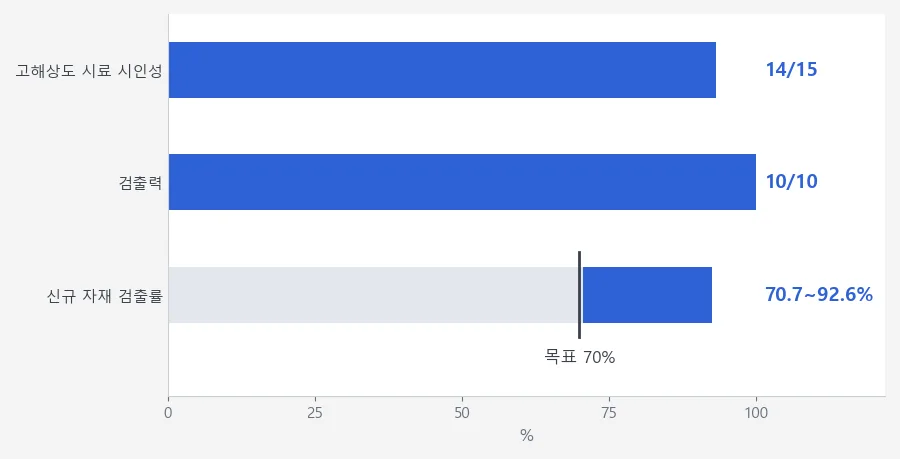
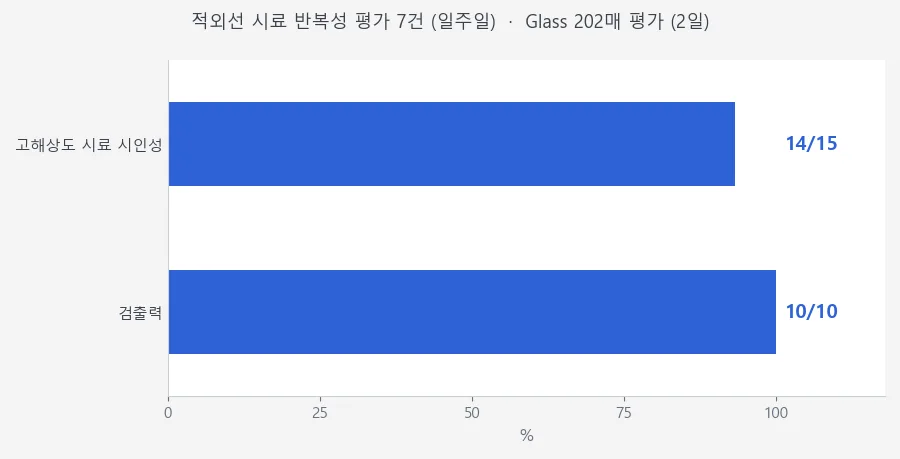
수치 대조 반영: 264시간은 전체 운영 기간(Failure 0건), Align 최대 오차 0.0013°, 정적 분석 수치 출처 분리, Tilt 보정 2025, Tact 조건, 보간 추적과 Down 해결 2026, 광학계 0.5µm 는 교체 사양, Real Rate 는 Crack 과제로, 근거 없는 문구 삭제

diff --git a/index.html b/index.html
@@ -50,7 +50,7 @@
       <a class="fig-num reveal" href="#p-mark"><strong>−79<span>%</span></strong><p>정렬 마크 Align 시간<br><small>템플릿 방식 대비, 현장 12/12 Slot 검출</small></p></a>
       <a class="fig-num reveal" href="#p-recipe"><strong>−92<span>%</span></strong><p>Bump Recipe 작성 시간<br><small>도면 기반 자동 배치</small></p></a>
       <a class="fig-num reveal" href="#p-focus"><strong>−72<span>%</span></strong><p>Auto Focus 시간<br><small>영상 AF 동시 검증, 이후 접촉 감지로 ±2µm</small></p></a>
-      <a class="fig-num reveal" href="#p-stable"><strong>264<span>h</span></strong><p>연속 운전 장애 0건<br><small>신규 설비 양산 투입 후</small></p></a>
+      <a class="fig-num reveal" href="#p-stable"><strong>264<span>h</span></strong><p>운영 중 Failure 0건<br><small>신규 설비 11일 운영, Vision UpTime 98.86%</small></p></a>
     </section>
 
     <section id="work" class="wrap">
@@ -63,7 +63,7 @@
           <div class="card-body">
             <h3>Feature 등록 없는 Wafer Align</h3>
             <p>Die 배열의 주기에 격자를 맞춰 회전각을 구하고, 틀린 결과는 스스로 거릅니다.</p>
-            <dl class="kpi"><div><dt>오판정 합격</dt><dd>0건</dd></div><div><dt>최대 각도 오차</dt><dd>−98%</dd></div></dl>
+            <dl class="kpi"><div><dt>오판정 합격</dt><dd>0건</dd></div><div><dt>최대 각도 오차</dt><dd>0.0013°</dd></div></dl>
             <span class="more-link">자세히 보기</span>
           </div>
         </a>
@@ -73,7 +73,7 @@
           <div class="card-body">
             <h3>신규 Particle 제거 설비 SW</h3>
             <p>참고 코드 없는 신규 설비를 양산에서 멈추지 않을 때까지 안정화했습니다.</p>
-            <div class="stat-big"><strong>264<span>h</span></strong><span>연속 운전, 장애 0건</span></div>
+            <div class="stat-big"><strong>264<span>h</span></strong><span>11일 운영, Failure 0건</span></div>
             <span class="more-link">자세히 보기</span>
           </div>
         </a>
@@ -125,7 +125,7 @@
           <h4>영상 알고리즘</h4>
           <div class="tiles">
             <a class="tile reveal" href="#p-score"><img class="light" src="assets/img/fig-score.webp" alt="" loading="lazy" width="900" height="600"><b>패턴 매칭 점수 오판정 개선</b><span>100점 고정 해소</span></a>
-            <a class="tile reveal" href="#p-hough"><img src="assets/img/fig-hough.webp" alt="" loading="lazy" width="900" height="600"><b>웨이퍼 외곽 원 검출 개선</b><span>재현 0건</span></a>
+            <a class="tile reveal" href="#p-hough"><img src="assets/img/fig-hough.webp" alt="" loading="lazy" width="900" height="600"><b>웨이퍼 외곽 원 검출 개선</b><span>오판정, 재시도 감소</span></a>
             <a class="tile reveal" href="#p-rgb"><img class="light" src="assets/img/fig-rgb.webp" alt="" loading="lazy" width="900" height="600"><b>조명 보정을 R, G, B 채널별로</b><span>1회 촬영으로 세 채널</span></a>
             <a class="tile reveal" href="#p-interp"><img src="assets/img/fig-interp.webp" alt="" loading="lazy" width="900" height="600"><b>보간 방식 차이 추적</b><span>결함 수 2.8% 차이</span></a>
           </div>
@@ -193,8 +193,8 @@
         <p class="sub">반도체 검사장비 기업 SW팀, 2022.01 입사. 대응 설비 7종 이상, 누적 작업 80건, 고객 공유 문서 8건 (2026 상반기 기준)</p>
         <ol class="timeline">
           <li><time>2026</time><p>Feature 없는 Align, 정렬 마크 검출, 도면 기반 Recipe 자동 생성, Crack 검출, Tip 파손 재발 방지</p></li>
-          <li><time>2025</time><p>신규 Particle 제거 설비 SW 셋업과 현장 상주 안정화, 입자 높이 Auto Focus, 적외선 광학계 평가</p></li>
-          <li><time>2024</time><p>2D, 3D 검사 설비 Tact 단축과 Tilt 보정, 데이터 백업 도구, 결과 편집 기능</p></li>
+          <li><time>2025</time><p>신규 Particle 제거 설비 SW 셋업과 현장 상주 안정화, 입자 높이 Auto Focus, 3D 검사 Stage Tilt 보정, 적외선 광학계 평가</p></li>
+          <li><time>2024</time><p>2D, 3D 검사 설비 Vision Setup 과 Tact 단축, 데이터 백업 도구, 결과 편집 기능</p></li>
           <li><time>2023</time><p>결함 좌표 매칭 알고리즘과 Review 리포트, 기준 데이터(Reference Data) 설비 통합, 설비 데이터 백업과 용량 관리, 검사 모듈 전압 Interlock, 12월부터 2D, 3D 검사 설비 Setup</p></li>
           <li><time>2022</time><p>입사 (일학습병행). 검사 상태 화면, 불량 통계 분석 기능, 촬영 영역 밝기 Interlock, 검사 결과 데이터 자동 삭제</p></li>
         </ol>
@@ -248,7 +248,7 @@
     <p class="d-meta">2026 · 알고리즘 설계, 실험, C++ 구현, 현장 검증</p>
     <h2 id="detail-title">Feature 등록 없는 Wafer Align</h2>
     <figure class="d-fig"><img src="assets/img/fig-align.webp" alt="1.8도 회전한 합성 Die 격자 위에 추정한 격자를 겹친 그림" width="1200" height="750"><figcaption>합성 Die 격자(1.8° 회전, 열 고정 잡음)에서 추정한 격자</figcaption></figure>
-    <dl class="kpi"><div><dt>오판정 합격</dt><dd>0건</dd></div><div><dt>최대 각도 오차</dt><dd>−98%</dd></div><div><dt>회전 자재 100회</dt><dd>Fail 0</dd></div></dl>
+    <dl class="kpi"><div><dt>오판정 합격</dt><dd>0건</dd></div><div><dt>최대 각도 오차</dt><dd>0.0013°</dd></div><div><dt>회전 자재 100회</dt><dd>Fail 0</dd></div></dl>
     <section class="d-step">
       <h3><span>1</span>등록 없이, 틀리면 스스로 거르게</h3>
       <p>사람이 등록한 Feature 를 매칭하는 방식은 Recipe 마다 등록 공수가 들고 Fail 이 남았습니다. 1차 방식은 양산 자재 수천 회 평가에서 고객 기준을 만족했지만, 저대비 영상에서 틀린 각도에 높은 점수를 주는 경우가 있었습니다.</p>
@@ -265,7 +265,7 @@
     </section>
     <section class="d-step">
       <h3><span>4</span>남은 과제</h3>
-      <p>처리 시간이 기존보다 길어, 촬영 줄 수를 2줄에서 1줄로 줄여 Takt 안에 맞추는 안을 함께 냈습니다. 보이는 Die 가 적은 영역은 판정을 거부하도록 설계했고, 양산 전환 검증을 진행 중입니다.</p>
+      <p>연산은 150ms 에서 약 700ms 로 늘었지만 양산 Takt 안에서 허용되는 수준입니다. 보이는 Die 가 적은 영역은 판정을 거부하도록 설계했고, 양산 전환 검증을 진행 중입니다.</p>
     </section>
     <p class="d-tags">C++, Python, OpenCV</p>
   </template>
@@ -274,8 +274,8 @@
     <p class="d-meta">2025-2026 · Vision, 시퀀스, UI, Interlock, 카메라 제어</p>
     <h2 id="detail-title">신규 Particle 제거 설비 SW</h2>
     <figure class="d-fig light"><img src="assets/img/fig-stable.webp" alt="연속 촬영 시간에 따라 화면에 못 그린 프레임 수. 모든 프레임을 차례로 그리면 5분에 700장 넘게 쌓이고, 최신 1장만 그리면 1장 이하" width="900" height="540"><figcaption>화면 그리기가 촬영보다 조금만 느려도, 모든 프레임을 차례로 그리면 대기열이 끝없이 쌓입니다. 합성 시뮬레이션</figcaption></figure>
-    <div class="stat-big"><strong>264<span>h</span></strong><span>계획 중단 3시간을 뺀 연속 운전, Vision 장애 0건</span></div>
-    <dl class="kpi"><div><dt>가동률 (432h 기준)</dt><dd>99.31%</dd></div><div><dt>메모리 사용</dt><dd>−33%</dd></div><div><dt>카메라 사용 시간</dt><dd>−55%</dd></div></dl>
+    <div class="stat-big"><strong>264<span>h</span></strong><span>11일(264시간) 운영 동안 Failure 0건, Vision UpTime 98.86%</span></div>
+    <dl class="kpi"><div><dt>가동률 (432h 기준)</dt><dd>99.31%</dd></div><div><dt>메모리 (10회 Shear)</dt><dd>18 → 12GB</dd></div><div><dt>카메라 사용 시간</dt><dd>−55%</dd></div></dl>
     <section class="d-step">
       <h3><span>1</span>참고 코드 없는 신규 설비</h3>
       <p>수동 장비를 Semi Auto 로 바꾸는 신규 설비라 참고할 코드가 없고 납기는 정해져 있었습니다. 양산 투입 후 48시간 안에 프로그램이 멈추는 일이 반복돼, 현장에 25일 상주하며 재현, 로그 분석, 수정, 재검증을 반복했습니다.</p>
@@ -287,7 +287,7 @@
     </section>
     <section class="d-step">
       <h3><span>3</span>멈춤을 숫자로 보기</h3>
-      <p>Crash 와 강제 종료를 감지해 MTBI, MTBF, 가동률을 로그에서 자동으로 계산하게 했습니다. 기능검사 9건을 100% 처리하고 3자 인증을 통과했습니다.</p>
+      <p>Crash 와 강제 종료를 감지해 MTBI, MTBF, 가동률을 로그에서 자동으로 계산하게 했습니다. 기능검사 9건 중 SW 담당 항목을 모두 처리하고 3자 인증을 통과했습니다.</p>
     </section>
     <section class="d-step">
       <h3><span>4</span>Interlock 재정비</h3>
@@ -357,7 +357,7 @@
     </section>
     <section class="d-step">
       <h3><span>2</span>모양과 위치를 함께 복원</h3>
-      <p>Min Pooling 방식을 좌표 Snapping, Oversampling, Box Resampling, Threshold 로 바꿨습니다(위 그림). 여러 크기의 VIA 와 Bump 로 기준 영상과 일치하는지 검증했습니다.</p>
+      <p>Min Pooling 방식을 좌표 Snapping, Oversampling, Box Resampling, Threshold 로 바꿨습니다(위 그림). 여러 크기의 VIA 와 Bump 로 기준 영상과 일치하는지 검증했고, 양산 자재(8µm VIA, 20µm Bump)로 위치와 형상이 일치해 <b>양산 검증을 통과</b>했습니다.</p>
     </section>
     <section class="d-step">
       <h3><span>3</span>대면적은 필요한 곳만</h3>
@@ -365,7 +365,7 @@
     </section>
     <section class="d-step">
       <h3><span>4</span>Bump 25만 개 자동 배치</h3>
-      <p>4점 원근 보정으로 Bump 약 25만 개를 배치하고, 첫 Layer 의 보정값을 다음 Layer 가 물려받게 했습니다. Bump Recipe 작성 <b>4시간에서 20분</b>, 양산 검증 통과. 같은 주제를 석사 연구(도면 특징으로 영역별 검사 임계값 정하기)로 이어가고 있습니다.</p>
+      <p>4점 원근 보정으로 Bump 약 25만 개를 배치하고, 첫 Layer 의 보정값을 다음 Layer 가 물려받게 했습니다. Bump Recipe 작성은 <b>4시간에서 20분</b>으로 줄었습니다. 같은 주제를 석사 연구(도면 특징으로 영역별 검사 임계값 정하기)로 이어가고 있습니다.</p>
     </section>
     <p class="d-tags">C# (WPF), C++, Python</p>
   </template>
@@ -381,7 +381,7 @@
     </section>
     <section class="d-step">
       <h3><span>2</span>5단계로 나눈 검출</h3>
-      <p>가장자리 탐색, 가변 Mask, 결함 검출, 크기 필터, Interlock 의 5단계로 나누고, 가장자리 띠 폭과 밝기 조건을 파라미터로 뺐습니다. 전체 결함 1,883건 중 <b>524건</b>을 새로 검출했습니다.</p>
+      <p>가장자리 탐색, 가변 Mask, 결함 검출, 크기 필터, Interlock 의 5단계로 나누고, 가장자리 띠 폭과 밝기 조건을 파라미터로 뺐습니다. 전체 결함 1,883건 중 <b>524건</b>을 새로 검출했고, HBM4 4개 조건을 모두 통과했습니다(Real Rate 목표 70% 대비 최대 92.6%).</p>
     </section>
     <section class="d-step">
       <h3><span>3</span>TB 급 영상을 여는 도구</h3>
@@ -397,7 +397,7 @@
     <h3>문제</h3>
     <ul><li>레시피 관리 기능이 도구 3개로 나뉘어 있어, 버전 확인, 수정, 배포, 복원을 도구를 옮겨 다니며 처리했습니다.</li></ul>
     <h3>접근</h3>
-    <ul><li>버전 저장소와 이력, 일괄 수정, 배포, 복원, 기준 등록과 검사 전 버전 검증을 하나의 도구로 6단계에 걸쳐 옮겼습니다.</li><li>서버 프로그램을 새로 만들고, 공유 폴더를 메시지 채널로 써서 요청과 결과를 멱등하게 처리했습니다. 일시 오류만 재시도하고, 임시 파일에 쓴 뒤 이름을 바꿉니다.</li></ul>
+    <ul><li>버전 저장소와 이력, 일괄 수정, 배포, 복원, 기준 등록과 검사 전 버전 검증을 하나의 도구로 옮겼습니다.</li><li>서버 프로그램을 새로 만들고, 공유 폴더를 메시지 채널로 써서 요청과 결과를 멱등하게 처리했습니다. 일시 오류만 재시도하고, 임시 파일에 쓴 뒤 이름을 바꿉니다.</li></ul>
     <h3>결과</h3>
     <ul><li>자체 검증 모드(장비 측 38, 서버 11 항목)와 연동 시험 19항목을 갖췄습니다. 장비 현장 검증 예정입니다.</li></ul>
     <p class="d-tags">C# (WPF), Client/Server</p>
@@ -437,11 +437,11 @@
     <p class="d-meta">2025</p>
     <h2 id="detail-title">웨이퍼 외곽 원 검출 개선</h2>
     <figure class="d-fig"><img src="assets/img/fig-hough.webp" alt="같은 합성 웨이퍼 영상에서 왼쪽은 안쪽 격자 원을 점선으로, 오른쪽은 외곽 원을 실선으로 검출" width="900" height="600"><figcaption>왼쪽 기존 파라미터는 대비가 큰 안쪽 격자 원을(점선), 오른쪽 수정 파라미터는 외곽을(실선) 잡습니다. 합성 영상에 OpenCV HoughCircles</figcaption></figure>
-    <ul><li>웨이퍼 안쪽 격자 원을 외곽으로 잘못 잡던 문제를 고쳤습니다.</li><li>Blur 크기를 키우고, 고정 Canny 임계값을 Otsu 동적 값으로, 반경 범위와 누적 해상도를 조정했습니다. 패치 후 재현 0건.</li></ul>
+    <ul><li>격자 무늬, 잡음, 영상을 이어 붙인 경계 때문에 웨이퍼 외곽 원 검출이 불안정하던 문제를 고쳤습니다.</li><li>Blur 를 9×9 에서 31×31 로 키우고, 고정 Canny 임계값(50~255)을 Otsu 기반으로, 반경 범위와 누적 해상도를 조정했습니다. Hough 검출 실패로 생기던 Wafer Center 오판정과 재시도가 줄었습니다.</li></ul>
   </template>
 
   <template id="p-interp">
-    <p class="d-meta">2025</p>
+    <p class="d-meta">2026</p>
     <h2 id="detail-title">보간 방식 차이로 바뀐 결함 수 추적</h2>
     <figure class="d-fig"><img src="assets/img/fig-interp.webp" alt="같은 영역을 좌표 반올림과 절삭으로 줄인 두 영상. 검출된 작은 결함 상자 수가 다름" width="900" height="600"><figcaption>같은 합성 영상을 좌표 반올림(왼쪽)과 절삭(오른쪽)으로 줄인 뒤 같은 임계값으로 검출한 일부 구간. 전체로는 228개 대 215개</figcaption></figure>
     <ul><li>같은 자재인데 결함 수가 2.8% 줄어든 원인을 추적해, 영상 보간이 반올림에서 절삭으로 바뀐 것을 찾았습니다.</li><li>반올림을 다시 적용해 결과를 되돌렸습니다.</li></ul>
@@ -451,11 +451,11 @@
     <p class="d-meta">2026</p>
     <h2 id="detail-title">조명 자동 보정을 R, G, B 채널별로</h2>
     <figure class="d-fig light"><img src="assets/img/fig-rgb.webp" alt="같은 조명값으로 찍은 색이 틀어진 장면과 채널별 보정 후 장면, 그리고 촬영 회차마다 R, G, B 중앙값이 목표 128 에 모이는 그래프" width="900" height="600"><figcaption>세 채널에 같은 조명값을 쓰면 색이 틀어집니다. 채널별 이분 탐색은 한 번 찍을 때마다 세 채널을 함께 재서 9회 안에 목표에 모입니다. 합성 장면</figcaption></figure>
-    <ul><li>조명 하나만 기준으로 맞추던 자동 보정을 채널별로 바꿨습니다.</li><li>영상 1회 촬영으로 3채널 밝기를 함께 재고, 채널별 중앙값 밝기를 목표값에 맞추도록 이분 탐색으로 수렴시킵니다.</li><li>단색 판정, 탐색 진동, 조명값 하한 버그를 함께 고쳤습니다.</li></ul>
+    <ul><li>조명 하나만 기준으로 맞추던 자동 보정을 채널별로 바꿨습니다.</li><li>영상 1회 촬영으로 3채널 밝기를 함께 재고, 채널별 중앙값 밝기를 목표값에 맞추도록 이분 탐색으로 수렴시킵니다.</li><li>단색 판정, 탐색 진동, 조명값 하한 버그를 함께 고쳤습니다. 설비 검증은 예정입니다.</li></ul>
   </template>
 
   <template id="p-down">
-    <p class="d-meta">2025-2026</p>
+    <p class="d-meta">2026</p>
     <h2 id="detail-title">반복성 평가 중 프로그램 Down 해결</h2>
     <figure class="d-fig"><img src="assets/img/fig-down.webp" alt="왼쪽은 위아래가 어긋난 두 프레임이 섞인 영상, 오른쪽은 한 프레임만 담긴 영상" width="900" height="600"><figcaption>락 없이 쓰는 도중에 읽으면(왼쪽) 두 프레임이 섞인 버퍼를 읽습니다. 락을 건 오른쪽은 한 프레임만 읽습니다. 합성 영상으로 재현한 원리</figcaption></figure>
     <ul><li>영상 버퍼 읽기와 쓰기에 락을 걸고, async void 를 async Task 로 바꿨습니다. UI 갱신은 메인 스레드 큐로 고정했습니다. 패치 후 재발 0건.</li><li>다른 설비에서는 Vision Down 4건 중 3건이 창 메시지 교착이었음을 찾아 정리했습니다.</li></ul>
@@ -478,23 +478,23 @@
   <template id="p-static">
     <p class="d-meta">2025</p>
     <h2 id="detail-title">정적 분석 경고와 메모리 누수 정리</h2>
-    <figure class="d-fig light"><img src="assets/img/fig-static.webp" alt="정적 분석 경고 수 막대. 1차 468에서 312, 2차 154에서 106" width="900" height="540"><figcaption>정적 분석 경고 수 (사내 점검 기록)</figcaption></figure>
-    <ul><li>정적 분석 경고를 468건에서 312건으로, 2차로 154건에서 106건으로 줄였습니다. 메모리 누수 40건 이상을 고쳤습니다.</li><li>32bit 시간 함수, 스레드 강제 종료 같은 위험 코드를 걷어내 프로그램 Down 을 2주에 1건 이하로 낮췄습니다.</li></ul>
+    <figure class="d-fig light"><img src="assets/img/fig-static.webp" alt="막대 그림. SonarQube 버그 468에서 312, 정적 분석 경고 298에서 106" width="900" height="540"><figcaption>정적 분석 경고 수 (사내 점검 기록)</figcaption></figure>
+    <ul><li><b>2025 상반기</b> SonarQube 로 버그를 468건에서 312건으로 줄이고 메모리 누수 40건 이상을 고쳤습니다.</li><li><b>2025 하반기</b> 다른 설비의 정적 분석 경고를 298건에서 106건으로 줄였습니다(2차 정리 154건 → 106건). 32bit 시간 함수, 스레드 강제 종료 같은 위험 코드를 걷어내 프로그램 Down 을 2주에 1건 이하로 낮췄습니다.</li></ul>
   </template>
 
   <template id="p-setup">
-    <p class="d-meta">2023-2024</p>
+    <p class="d-meta">2023-2025</p>
     <h2 id="detail-title">2D, 3D 검사 설비 Vision Setup</h2>
     <figure class="d-fig light"><img src="assets/img/fig-setup.webp" alt="Stage 높이 맵 두 장. 보정 전은 한쪽으로 기울어 있고, Y 위치별 Z 보간 구동 후는 고름" width="1000" height="460"><figcaption>Y 위치마다 잰 높이로 Z 를 보간 구동하면 Stage 기울기가 줄어듭니다. 합성 높이 맵</figcaption></figure>
     <dl class="kpi"><div><dt>위치별 오차</dt><dd>±4 → ±1µm</dd></div><div><dt>Stage Tilt</dt><dd>10 → 6µm</dd></div></dl>
-    <ul><li>Line Scan 과 3D 센서 촬영 시퀀스, 높이 보간 가변 Focus 를 구성했습니다.</li><li>Stage 높이 데이터로 YZ 보간 구동을 해 Tilt 를 고객 기준 안으로 줄였습니다.</li><li>2D 와 3D 를 함께 검사하는 Tact 를 7분 12초에서 6분 5초로 맞췄습니다.</li></ul>
+    <ul><li>Line Scan 과 3D 센서 촬영 시퀀스, 높이 보간 가변 Focus 를 구성했습니다.</li><li>검사를 빼고도 7분 12초 걸려 설정 Tact 6분을 넘던 것을, 2D 와 3D 검사를 포함해 6분 5초로 줄였습니다.</li><li><b>2025</b> 다른 3D 설비에서 Stage 높이 데이터로 YZ 보간 구동을 해 Tilt 를 10µm 에서 6µm 로, 고객 기준(8µm 이내) 안으로 줄였습니다.</li></ul>
   </template>
 
   <template id="p-optics">
     <p class="d-meta">2025-2026</p>
     <h2 id="detail-title">신규 광학계와 자재 검출력 평가</h2>
-    <figure class="d-fig light"><img src="assets/img/fig-optics.webp" alt="평가 결과 막대. 고해상도 시료 시인성 14/15, 검출력 10/10, 신규 자재 검출률 70.7~92.6% (목표 70%)" width="900" height="460"><figcaption>신규 광학계 평가 결과 (평가 기록)</figcaption></figure>
-    <ul><li>적외선 광학계 반복성을 평가해 3σ 약 0.5µm 수준을 확인했고, 신규 광학계 교체 결정의 근거가 됐습니다.</li><li>고해상도 신규 시료 시인성 14/15, 검출력 10/10. 신규 자재 검출률은 목표 70% 대비 70.7~92.6%.</li><li>4명이 Glass 202매를 2일 만에 평가해 신규 장비 발주로 이어졌습니다.</li></ul>
+    <figure class="d-fig light"><img src="assets/img/fig-optics.webp" alt="평가 결과 막대. 고해상도 시료 시인성 14/15, 검출력 10/10, 적외선 시료 평가 7건, Glass 202매" width="900" height="460"><figcaption>신규 광학계 평가 결과 (평가 기록)</figcaption></figure>
+    <ul><li>적외선 광학계 시료 7건의 반복성 평가를 일주일 안에 끝내고 보고서를 냈고, 신규 광학계 교체 발주(2.5µm → 0.5µm)의 근거가 됐습니다.</li><li>고해상도 신규 시료 시인성 14/15, 검출력 10/10.</li><li>4명이 Glass 202매를 2일 만에 평가해 신규 장비 발주로 이어졌습니다.</li></ul>
   </template>
 
   <script src="assets/site.js"></script>

diff --git a/tools/make_figures.py b/tools/make_figures.py
@@ -717,20 +717,21 @@ def fig_light():
     return float(dev.mean())
 
 
-# 17. 정적 분석: 경고 수 (평가 문서 수치)
+# 17. 정적 분석과 코드 정리 (평가 문서 수치: 2025 상 SonarQube 버그, 2025 하 정적 분석 경고)
 def fig_static():
     plt = _plt()
     fig, ax = plt.subplots(figsize=(9, 5.4), dpi=100)
     x = np.array([0, 1.4])
-    ax.bar(x - .28, [468, 154], .5, color="#9aa3ae")
-    ax.bar(x + .28, [312, 106], .5, color=BLUE)
-    for xi, a, b in zip(x, (468, 154), (312, 106)):
+    before, after = (468, 298), (312, 106)
+    ax.bar(x - .28, before, .5, color="#9aa3ae")
+    ax.bar(x + .28, after, .5, color=BLUE)
+    for xi, a, b in zip(x, before, after):
         ax.text(xi - .28, a + 8, f"{a}", ha="center", fontsize=14, color=INK)
         ax.text(xi + .28, b + 8, f"{b}", ha="center", fontsize=14, color=BLUE, weight="bold")
-    ax.set_xticks(x, ["1차 정리", "2차 정리"], fontsize=13)
+    ax.set_xticks(x, ["SonarQube 버그 (2025 상)", "정적 분석 경고 (2025 하)"], fontsize=13)
     ax.text(.62, .95, "정리 전", color=MUTED, fontsize=13, transform=ax.transAxes, va="top")
     ax.text(.77, .95, "정리 후", color=BLUE, fontsize=13, transform=ax.transAxes, va="top")
-    ax.set_ylabel("정적 분석 경고 (건)", fontsize=13, color=INK)
+    ax.set_ylabel("건수", fontsize=13, color=INK)
     ax.set_ylim(0, 520)
     _clean(ax)
     fig.tight_layout()
@@ -828,22 +829,19 @@ def fig_setup():
 def fig_optics():
     plt = _plt()
     fig, ax = plt.subplots(figsize=(9, 4.6), dpi=100)
-    ax.barh(2, 14 / 15 * 100, .5, color=BLUE)
-    ax.barh(1, 100, .5, color=BLUE)
-    ax.barh(0, 70.7, .5, color="#e3e7ec")
-    ax.barh(0, 92.6 - 70.7, .5, left=70.7, color=BLUE)
-    ax.plot([70, 70], [-.38, .38], color=INK, lw=2)
-    ax.text(70, -.48, "목표 70%", ha="center", va="top", fontsize=12, color=INK)
-    for yv, t in ((2, "14/15"), (1, "10/10"), (0, "70.7~92.6%")):
+    ax.barh(1, 14 / 15 * 100, .5, color=BLUE)
+    ax.barh(0, 100, .5, color=BLUE)
+    for yv, t in ((1, "14/15"), (0, "10/10")):
         ax.text(101.5, yv, t, va="center", fontsize=14, color=BLUE, weight="bold")
-    ax.set_yticks([2, 1, 0], ["고해상도 시료 시인성", "검출력", "신규 자재 검출률"], fontsize=13)
-    ax.set_xlim(0, 122)
-    ax.set_ylim(-.9, 2.5)
+    ax.set_yticks([1, 0], ["고해상도 시료 시인성", "검출력"], fontsize=13)
+    ax.set_xlim(0, 118)
+    ax.set_ylim(-.5, 1.5)
     ax.set_xticks([0, 25, 50, 75, 100])
     ax.set_xlabel("%", fontsize=12, color=MUTED)
     _clean(ax)
     ax.tick_params(axis="y", length=0, colors=INK)
-    fig.tight_layout()
+    fig.tight_layout(rect=(0, 0, 1, .9))
+    fig.text(.5, .95, "적외선 시료 반복성 평가 7건 (일주일)  ·  Glass 202매 평가 (2일)", fontsize=13, color=INK, ha="center", va="center")
     _save_plt(fig, "fig-optics.webp")
 
 
